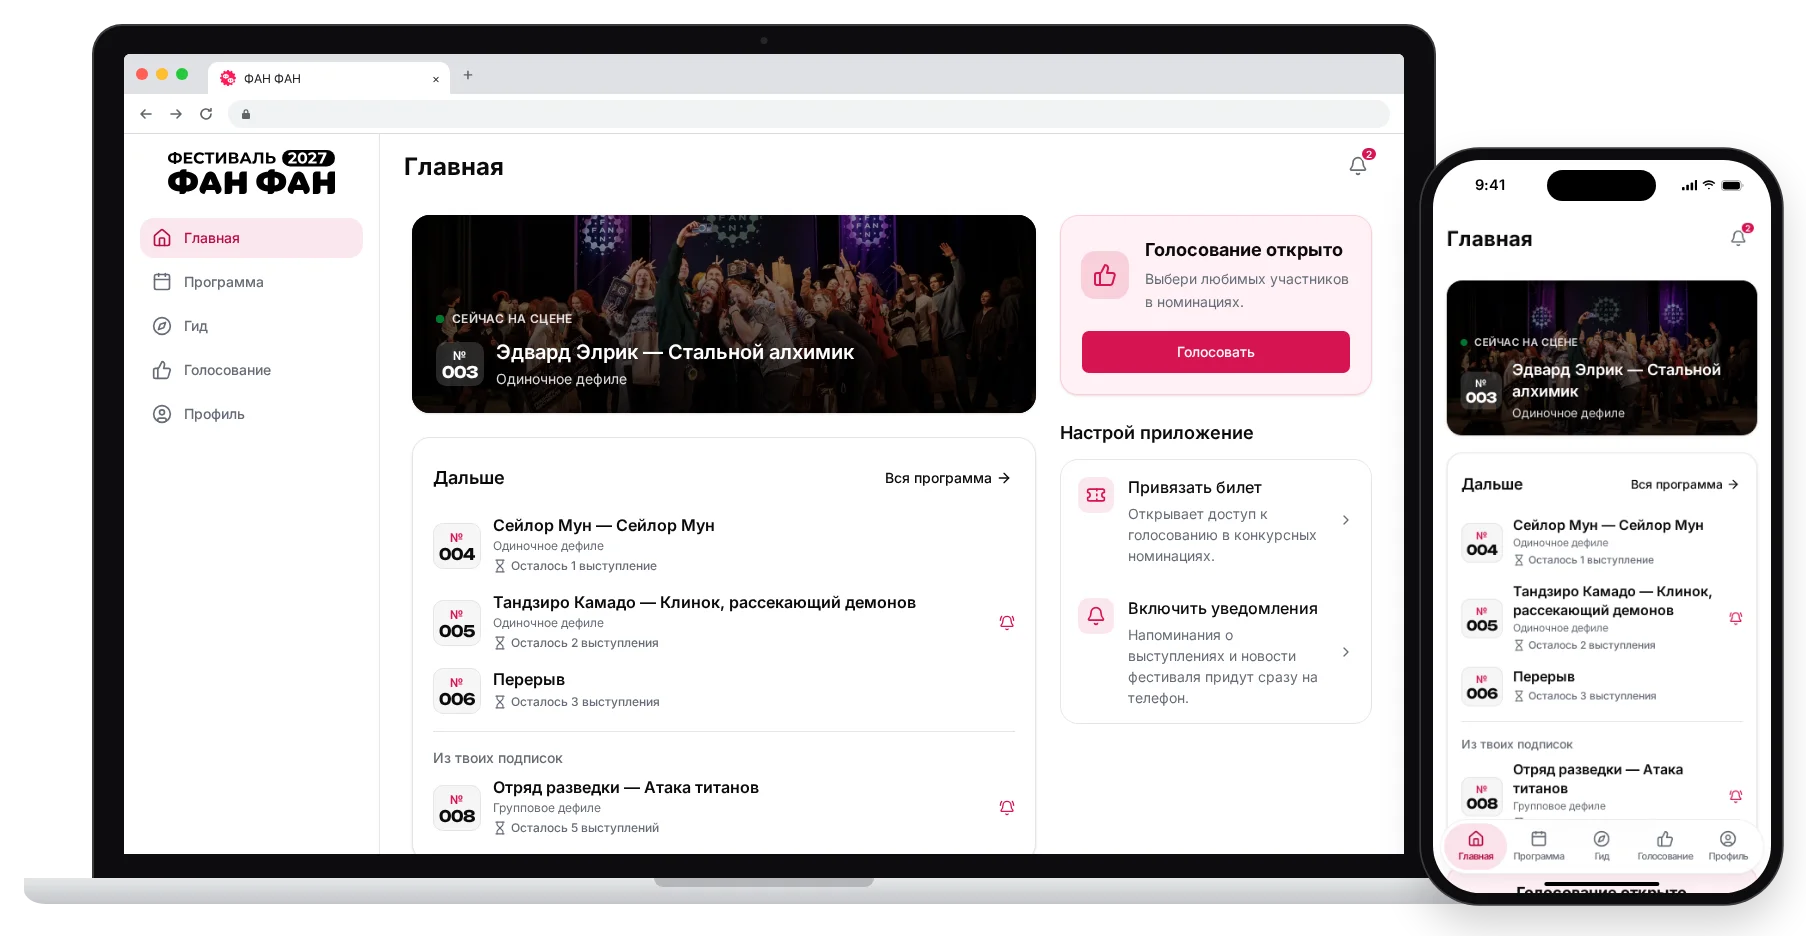
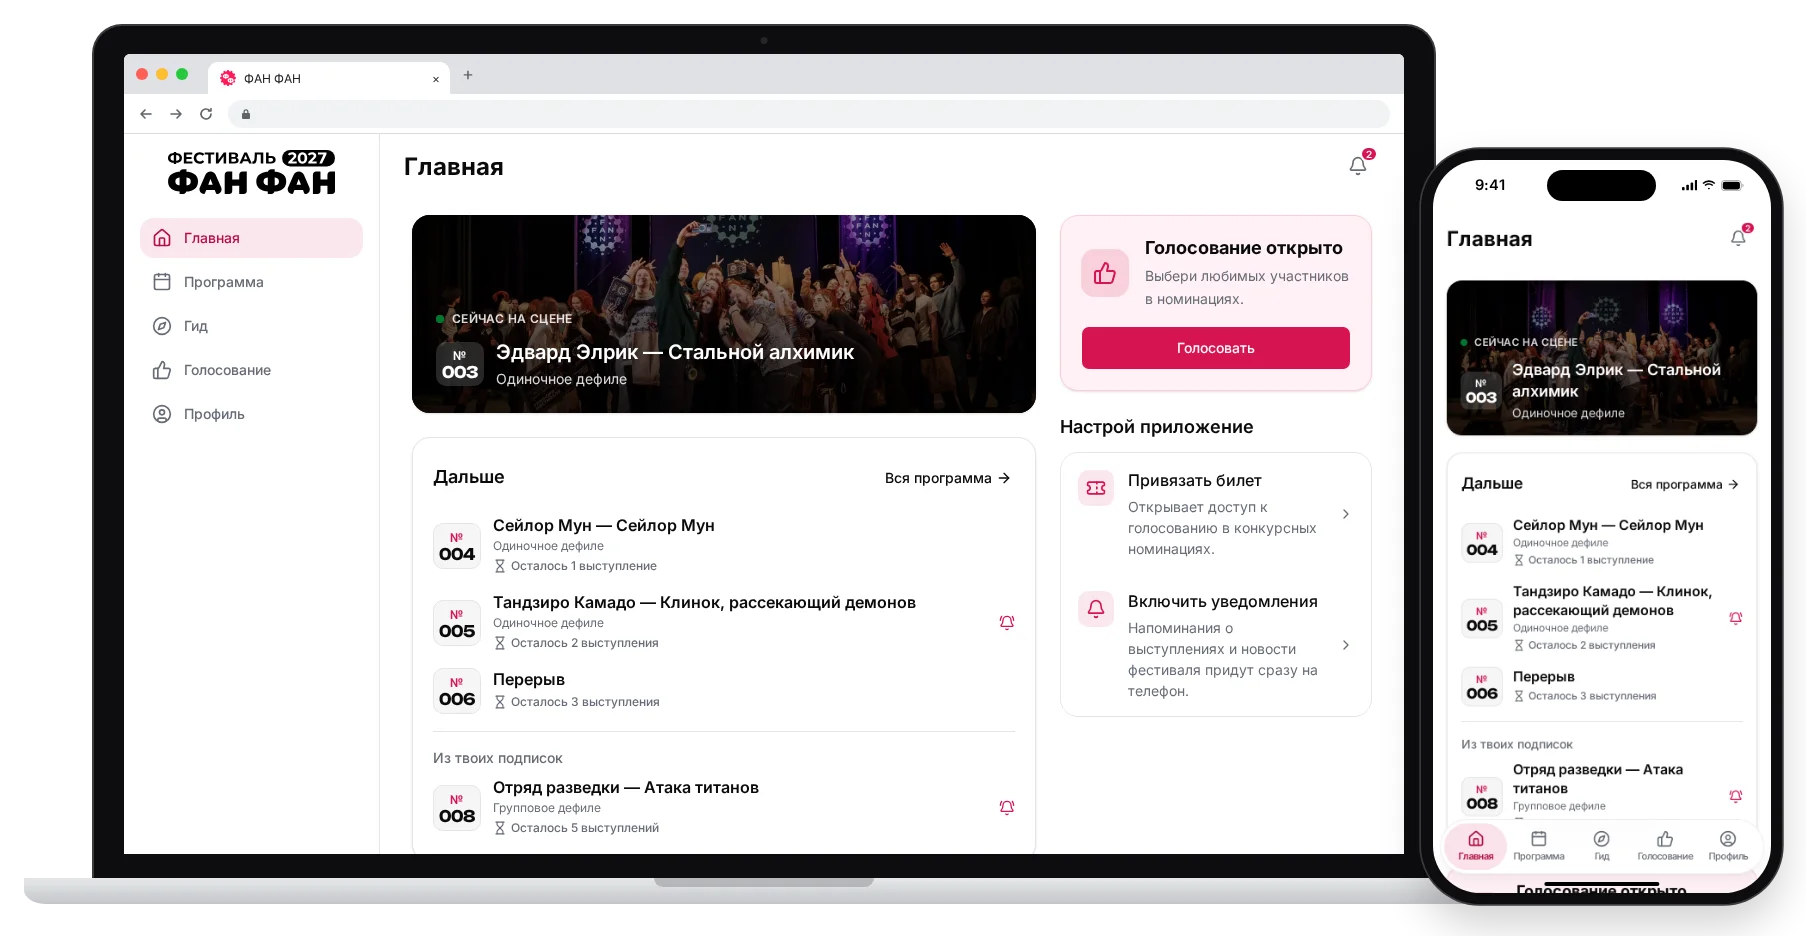
refactor(frontend): name the headline, section and body type roles
The scale lived in raw Tailwind steps repeated at each call site, which
is how phones drifted onto smaller sizes. `text-headline`, `text-section`
and `text-body` are now `@theme` roles in app.css, each carrying size,
line height and (for headings) weight per the Tailwind v4 `--text-*`
companion variables (https://tailwindcss.com/docs/font-size); a `font-*`
or `leading-*` class still overrides.

cn() registers the roles with tailwind-merge: unregistered, it reads
`text-body` as a text colour, so `cn('text-body text-foreground')`
returned only `text-foreground`. utils.test.ts reads the roles from
app.css and fails if one is added without joining that list.

Claude-Session: https://claude.ai/code/session_01Ngy1Gz8J4UqLahFqGeHBaZ

diff --git a/frontend/src/app.css b/frontend/src/app.css
@@ -55,6 +55,28 @@
 	--text-3xs--line-height: calc(0.875 / 0.625);
 
 	/*
+	 * Named type roles (DESIGN.md §3), so the scale is retuned here rather than at each
+	 * call site. Same size at every width: phones are where people read this app.
+	 * Weight and line height are defaults; a `font-*` / `leading-*` class still wins.
+	 * A new role here must also join `cn()`'s tailwind-merge list in `$lib/utils.ts`,
+	 * or `cn()` drops it as an unknown text colour.
+	 *
+	 * headline: page titles, Material 3 Headline Small (24sp); between iOS Title 2 (22pt)
+	 *   and Title 1 (28pt). section: section headings, one step under it and over body.
+	 * body: reading text, Material 3 Body Large (16sp); iOS Body is 17pt.
+	 * https://developer.android.com/develop/ui/compose/designsystems/material3
+	 * https://developer.apple.com/design/human-interface-guidelines/typography
+	 */
+	--text-headline: 1.5rem;
+	--text-headline--line-height: 1.375;
+	--text-headline--font-weight: 700;
+	--text-section: 1.125rem;
+	--text-section--line-height: 1.375;
+	--text-section--font-weight: 600;
+	--text-body: 1rem;
+	--text-body--line-height: 1.5;
+
+	/*
 	 * The live dot's ping, run three times instead of forever. WCAG 2.2.2 requires
 	 * auto-started motion shown beside other content to stop within 5s or offer a
 	 * pause; three 1s pings say "live" and then rest. Same curve as `animate-ping`.

diff --git a/frontend/src/routes/(app)/components/AppNavbar.svelte b/frontend/src/routes/(app)/components/AppNavbar.svelte
@@ -54,13 +54,13 @@
 			</Button>
 		{/if}
 		{#if pageTitle}
-			<!-- 24px at every width (Material 3 Headline Small). The longest titles
-				(«Настройки уведомлений») overflow a 360px phone beside the back arrow and
-				bell at that size, so they wrap to a second line instead of truncating: a
-				clipped page title loses the word that names the page. The layout measures
-				the bar, so <main>'s offset follows the taller row. leading-snug, not tight:
-				line-clamp clips like truncate, and Cyrillic descenders (у, д) need the room. -->
-			<h1 class="line-clamp-2 text-2xl leading-snug font-bold break-words text-foreground">
+			<!-- Long titles («Настройки уведомлений», and nomination names, which are
+				organiser data) overflow a 360px phone beside the back arrow and bell, so
+				they wrap to a second line instead of truncating: a clipped page title
+				loses the word that names the page. The layout measures the bar, so <main>'s
+				offset follows the taller row. Keep the role's 1.375 line height, not
+				leading-tight: line-clamp clips, and Cyrillic descenders (у, д) need the room. -->
+			<h1 class="line-clamp-2 text-headline break-words text-foreground">
 				{pageTitle}
 			</h1>
 		{/if}

diff --git a/frontend/src/routes/(app)/schedule/components/MoveEventModal.svelte b/frontend/src/routes/(app)/schedule/components/MoveEventModal.svelte
@@ -111,7 +111,7 @@
 				</Alert.Root>
 			{/if}
 
-			<Dialog.Description class="text-base">
+			<Dialog.Description class="text-body">
 				<ParaglideMessage message={m.event_move_choose} inputs={{ title: event.title }}>
 					{#snippet strong({ children }: MessageTagProps)}
 						<strong class="text-foreground">{@render children?.()}</strong>
@@ -159,7 +159,7 @@
 					<button
 						type="button"
 						class={[
-							'w-full cursor-pointer px-3 py-2.5 text-left text-base transition-colors hover:bg-primary/10 focus:outline-none focus-visible:bg-primary/10 focus-visible:ring-2 focus-visible:ring-primary sm:py-3',
+							'w-full cursor-pointer px-3 py-2.5 text-left text-body transition-colors hover:bg-primary/10 focus:outline-none focus-visible:bg-primary/10 focus-visible:ring-2 focus-visible:ring-primary sm:py-3',
 							entry.type === 'block_start' && 'bg-muted/60',
 							selectedId === entry.id && 'bg-primary/20'
 						]}
@@ -177,7 +177,7 @@
 						{/if}
 					</button>
 				{:else}
-					<div class="px-3 py-4 text-center text-base text-muted-foreground sm:py-5">
+					<div class="px-3 py-4 text-center text-body text-muted-foreground sm:py-5">
 						{m.event_move_no_matches()}
 					</div>
 				{/each}

diff --git a/frontend/src/routes/(app)/(protected)/tools/voting/+page.svelte b/frontend/src/routes/(app)/(protected)/tools/voting/+page.svelte
@@ -113,7 +113,7 @@
 
 <div class="mx-auto flex w-full max-w-2xl flex-col gap-5">
 	<Card.Root class="w-full max-w-none gap-4 rounded-2xl p-4 sm:p-6">
-		<h2 class="text-lg font-semibold text-foreground">{m.voting_period_title()}</h2>
+		<h2 class="text-section text-foreground">{m.voting_period_title()}</h2>
 
 		<p class="text-sm leading-5 text-muted-foreground">
 			{m.voting_period_hint()}
@@ -161,7 +161,7 @@
 	<Card.Root class="w-full max-w-none gap-4 rounded-2xl p-4 sm:p-6">
 		<div class="flex items-center gap-2">
 			<Gift class="size-5 text-primary" aria-hidden="true" />
-			<h2 class="text-lg font-semibold text-foreground">{m.voting_draw_title()}</h2>
+			<h2 class="text-section text-foreground">{m.voting_draw_title()}</h2>
 		</div>
 		<p class="text-sm leading-5 text-muted-foreground">
 			{m.voting_draw_hint()}
@@ -226,7 +226,7 @@
 	<Card.Root class="w-full max-w-none gap-4 rounded-2xl p-4 sm:p-6">
 		<div class="flex items-center gap-2">
 			<Award class="size-5 text-primary" aria-hidden="true" />
-			<h2 class="text-lg font-semibold text-foreground">{m.voting_leaders_title()}</h2>
+			<h2 class="text-section text-foreground">{m.voting_leaders_title()}</h2>
 		</div>
 
 		{#if nominations.length > 0}

diff --git a/frontend/src/lib/utils.test.ts b/frontend/src/lib/utils.test.ts
@@ -1,0 +1,24 @@
+import { readFileSync } from 'node:fs';
+import { describe, expect, it } from 'vitest';
+
+import { cn } from './utils';
+
+// Every font-size role in app.css `@theme`, minus the `--line-height` / `--font-weight`
+// companions. Read from the stylesheet so a role added there without joining cn()'s
+// tailwind-merge list fails here instead of vanishing from a component at runtime.
+const appCss = readFileSync(new URL('../app.css', import.meta.url), 'utf8');
+const textRoles = [...appCss.matchAll(/--text-([a-z0-9]+):/g)].map((match) => match[1]);
+
+describe('cn', () => {
+	it('finds the type roles in app.css', () => {
+		expect(textRoles).toEqual(expect.arrayContaining(['headline', 'section', 'body']));
+	});
+
+	it.each(textRoles)('keeps text-%s beside a text colour', (role) => {
+		expect(cn(`text-${role}`, 'text-foreground')).toBe(`text-${role} text-foreground`);
+	});
+
+	it.each(textRoles)('lets text-%s override a stock size', (role) => {
+		expect(cn('text-sm', `text-${role}`)).toBe(`text-${role}`);
+	});
+});

diff --git a/frontend/src/routes/(app)/guide/[slug]/+page.svelte b/frontend/src/routes/(app)/guide/[slug]/+page.svelte
@@ -15,7 +15,7 @@
 <!-- The markdown renders bare elements, so the spacing, list and link style come from here.
      Links stay underlined: colour alone must not mark them (WCAG 1.4.1). -->
 <article
-	class="mx-auto w-full max-w-2xl rounded-2xl border bg-card p-5 leading-relaxed sm:p-6 [&_a]:font-medium [&_a]:text-primary [&_a]:underline [&_a]:underline-offset-4 [&_h2]:mt-6 [&_h2]:text-lg [&_h2]:leading-snug [&_h2]:font-semibold [&_li]:mt-1.5 [&_p]:mt-3 [&_p:first-child]:mt-0 [&_ul]:mt-3 [&_ul]:list-disc [&_ul]:ps-5"
+	class="mx-auto w-full max-w-2xl rounded-2xl border bg-card p-5 text-body leading-relaxed sm:p-6 [&_a]:font-medium [&_a]:text-primary [&_a]:underline [&_a]:underline-offset-4 [&_h2]:mt-6 [&_h2]:text-section [&_li]:mt-1.5 [&_p]:mt-3 [&_p:first-child]:mt-0 [&_ul]:mt-3 [&_ul]:list-disc [&_ul]:ps-5"
 >
 	<Content />
 </article>

diff --git a/frontend/src/routes/(app)/guide/+page.svelte b/frontend/src/routes/(app)/guide/+page.svelte
@@ -133,10 +133,10 @@
 <div class="mx-auto flex w-full max-w-2xl flex-col gap-4 sm:gap-5">
 	<section aria-labelledby="guide-heading" class="rounded-2xl border bg-card p-5 sm:p-6">
 		<img src={logo} alt={m.app_name()} class="h-10 w-auto dark:invert" />
-		<h2 id="guide-heading" class="mt-4 text-lg leading-snug font-semibold text-balance">
+		<h2 id="guide-heading" class="mt-4 text-section text-balance">
 			{m.guide_tagline()}
 		</h2>
-		<p class="mt-1.5 text-base leading-relaxed text-muted-foreground">{m.guide_about()}</p>
+		<p class="mt-1.5 text-body leading-relaxed text-muted-foreground">{m.guide_about()}</p>
 		<ul class="mt-3 flex flex-wrap gap-2">
 			{#each facts as fact (fact)}
 				<li class="rounded-full bg-muted px-3 py-1 text-sm font-medium">{fact}</li>

diff --git a/frontend/src/routes/(app)/(protected)/tools/users/[id]/+page.svelte b/frontend/src/routes/(app)/(protected)/tools/users/[id]/+page.svelte
@@ -33,7 +33,7 @@
 		<div class="flex items-center gap-4">
 			<UserAvatar seed={profile.avatar_seed} class="size-14" />
 			<div class="min-w-0">
-				<h2 class="text-2xl font-bold break-words text-foreground">
+				<h2 class="text-headline break-words text-foreground">
 					{profile.username}
 				</h2>
 				<Badge variant="secondary" class="mt-1">
@@ -77,7 +77,7 @@
 	<Card.Root class="w-full max-w-none gap-4 rounded-2xl p-4 sm:p-6">
 		<div class="flex items-center gap-2">
 			<Link2 class="size-5 text-primary" aria-hidden="true" />
-			<h2 class="text-lg font-semibold text-foreground">{m.user_linked_accounts()}</h2>
+			<h2 class="text-section text-foreground">{m.user_linked_accounts()}</h2>
 		</div>
 
 		{#if profile.social_links.length > 0}

diff --git a/frontend/src/routes/(app)/components/home/HeroCard.svelte b/frontend/src/routes/(app)/components/home/HeroCard.svelte
@@ -184,10 +184,10 @@
 				</div>
 			</div>
 		{:else if phase === 'during'}
-			<h2 id="hero-heading" class="text-lg font-semibold">{m.home_festival_ongoing()}</h2>
+			<h2 id="hero-heading" class="text-section">{m.home_festival_ongoing()}</h2>
 		{:else}
-			<h2 id="hero-heading" class="text-lg font-semibold">{m.home_festival_finished()}</h2>
-			<p class="max-w-prose text-base leading-relaxed text-white/85">
+			<h2 id="hero-heading" class="text-section">{m.home_festival_finished()}</h2>
+			<p class="max-w-prose text-body leading-relaxed text-white/85">
 				{m.home_festival_farewell()}
 			</p>
 			<!-- Guests land on the auth-gated feedback page, which bounces them to

diff --git a/frontend/src/routes/(app)/(protected)/tools/settings/+page.svelte b/frontend/src/routes/(app)/(protected)/tools/settings/+page.svelte
@@ -199,7 +199,7 @@
 	{/if}
 
 	<Card.Root class="w-full max-w-none gap-4 rounded-2xl p-4 sm:p-6">
-		<h2 class="text-lg font-semibold text-foreground">
+		<h2 class="text-section text-foreground">
 			{m.settings_festival_section()}
 		</h2>
 
@@ -251,7 +251,7 @@
 	</Card.Root>
 
 	<Card.Root class="w-full max-w-none gap-4 rounded-2xl p-4 sm:p-6">
-		<h2 class="text-lg font-semibold text-foreground">{m.nav_schedule()}</h2>
+		<h2 class="text-section text-foreground">{m.nav_schedule()}</h2>
 
 		<Field.Field data-invalid={announcementTimeoutError ? true : undefined}>
 			<Field.FieldLabel for="announcement-timeout">{m.settings_timeout_label()}</Field.FieldLabel>

diff --git a/frontend/src/lib/utils.ts b/frontend/src/lib/utils.ts
@@ -1,5 +1,12 @@
 import { type ClassValue, clsx } from 'clsx';
-import { twMerge } from 'tailwind-merge';
+import { extendTailwindMerge } from 'tailwind-merge';
+
+// Deviates from upstream: registers the type roles from app.css `@theme`. Unregistered,
+// tailwind-merge reads `text-body` as a text colour and `cn('text-body text-foreground')`
+// silently drops it.
+const twMerge = extendTailwindMerge({
+	extend: { theme: { text: ['headline', 'section', 'body'] } }
+});
 
 export function cn(...inputs: ClassValue[]) {
 	return twMerge(clsx(inputs));

diff --git a/frontend/src/routes/(app)/(protected)/tools/import-schedule/components/FileFormatGuide.svelte b/frontend/src/routes/(app)/(protected)/tools/import-schedule/components/FileFormatGuide.svelte
@@ -39,12 +39,12 @@
 <section class="mb-6 flex flex-col">
 	<div class="mb-3 flex items-center gap-2">
 		<Info class="size-5 shrink-0 text-muted-foreground" />
-		<h2 class="text-lg leading-snug font-semibold text-foreground">
+		<h2 class="text-section text-foreground">
 			{m.import_guide_title()}
 		</h2>
 	</div>
 
-	<p class="text-base leading-relaxed text-muted-foreground">
+	<p class="text-body leading-relaxed text-muted-foreground">
 		{m.import_guide_intro()}
 	</p>
 
